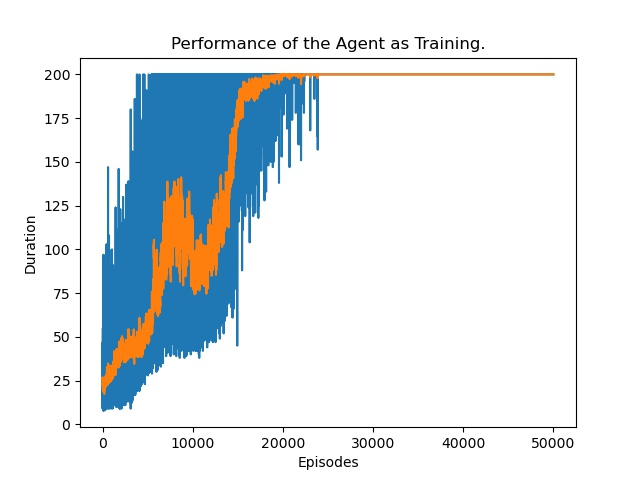
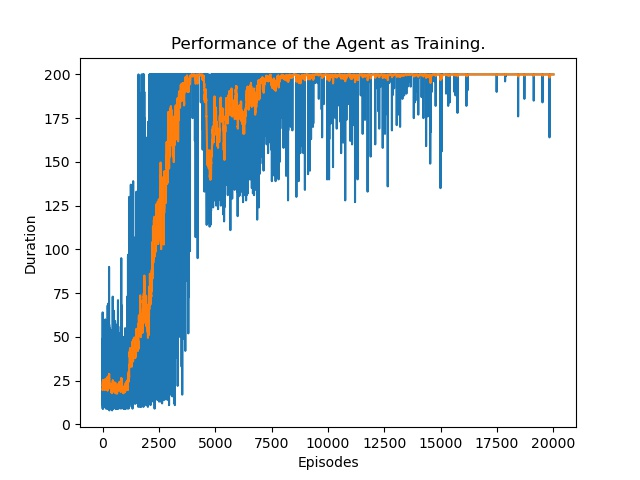
attack the state

Changed region(s): [[0.1562, 0.125, 0.875, 0.875], [0.4062, 0.9062, 0.9062, 0.9375], [0.2188, 0.9062, 0.375, 0.9375]]

diff --git a/train_DQN.py b/train_DQN.py
@@ -9,7 +9,6 @@ import json
 
 parser = argparse.ArgumentParser(description='Please provide the config file.')
 parser.add_argument('-config', type=str, help='the path to the config file')
-parser.add_argument('-seed', type=int, help='the path to the config file')
 args = parser.parse_args()
 with open(args.config) as f:
     config = json.load(f)
@@ -17,15 +16,16 @@ with open(args.config) as f:
 env = gym.make('CartPole-v0')
 input_dim = env.observation_space.shape[0]
 output_dim = env.action_space.n
-agent = Agent(seed=args.seed,
+agent = Agent(seed=1423,
     layer_sizes=[input_dim, config['hidden_layer_size'], output_dim], 
     lr=config['lr'], 
     sync_freq=config['sync_freq'], 
     exp_replay_size=config['exp_replay_size'],
     gamma=config['gamma'])
 agent.initialize(env)
-if args.reg is not None:
+if config['reg'] is not None:
     agent.q_net.load_state_dict(torch.load('models/agent_normal.pth'))
+    agent.q_net.eval()
 
 durations = []
 index = config['exp_replay_size'] / 2
@@ -48,13 +48,18 @@ for i in range(config['n_episodes']):
             for _ in range(4):
                 q_loss, reg_loss = agent.compute_loss(batch_size=config['batch_size'], reg=config['reg'])
                 loss = q_loss + reg_loss if reg_loss is not None else q_loss
-                agent.optimizer.zero_grad()
-                loss.backward(retain_graph=True)
-                agent.optimizer.step()
+                if config['reg'] is None:
+                    agent.optimizer.zero_grad()
+                    loss.backward(retain_graph=True)
+                    agent.optimizer.step()
+                else:
+                    agent.optimizer.zero_grad()
+                    loss.backward(retain_graph=True)
+                    agent.optimizer.step()
+                    
 
-    # if i % 100 == 0:         
-    #     print(f'episode {i}, q_loss: {q_loss.item()}, reg_loss: {reg_loss.item() if reg_loss is not None else None}')
-    #     pass
+    if i % 100 == 0:         
+        print(f'episode {i}, q_loss: {q_loss.item()}, reg_loss: {reg_loss.item() if reg_loss is not None else None}')
 
     if epsilon > config['eps_end']:
         epsilon -= (1 / config['eps_decay'])
@@ -81,5 +86,5 @@ for i in range(1000):
         obs, reward, done, _ = env.step(A.item())
         r += 1
 
-print(f"Seed: {args.seed}. Try 1000 episodes. Average reward is {r / 1000}.")
+print(f"Try 1000 episodes. Average reward is {r / 1000}.")
 agent.save(config['savepath'])

diff --git a/Agent.py b/Agent.py
@@ -12,6 +12,7 @@ class Agent:
         self.target_net = copy.deepcopy(self.q_net)
         self.loss_fn = torch.nn.MSELoss()
         self.optimizer = torch.optim.Adam(self.q_net.parameters(), lr=lr)
+        self.optimizer_last_layer = torch.optim.Adam(self.q_net[-2].parameters(), lr=lr)
         
         self.network_sync_freq = sync_freq
         self.network_sync_counter = 0
@@ -102,10 +103,11 @@ class Agent:
         reg_loss = None
         if reg:
             K, sigma, gamma, lambd = reg['K'], reg['sigma'], reg['gamma'], reg['lambda']
-            for i in range(len(self.q_net)-2):
-                s = self.q_net[i](s)
             si = [s+torch.randn(size=s.shape) * sigma for _ in range(K)]
-            ai = [self.q_net[-1](self.q_net[-2](s)) for s in si]
+            # for i in range(len(self.q_net)-2):
+            #     s = self.q_net[i](s)
+            s = self.q_net(s)
+            ai = [self.q_net(s) for s in si]
             ai = [torch.exp(a) / torch.sum(torch.exp(a), axis=1, keepdim=True) for a in ai]
             ai = torch.stack(ai, axis=2)
             eps = 1e-3

diff --git a/train_attacker.py b/train_attacker.py
@@ -2,7 +2,6 @@ from Agent import Agent
 from Attacker import Attacker
 import gym
 import torch
-from vars import *
 import matplotlib.pyplot as plt
 import copy
 from statsmodels.tsa.api import SimpleExpSmoothing
@@ -48,10 +47,10 @@ for i in range(attack_cfg['n_episodes']):
         obs = obs_next
         index += 1
         
-        if(index > EXP_REPLAY_SIZE / 2):
+        if(index > agent_cfg['exp_replay_size'] / 2):
             index = 0
             for _ in range(4):
-                loss, _ = agent.compute_loss(batch_size=BATCH_SIZE)
+                loss, _ = agent.compute_loss(batch_size=agent_cfg['batch_size'])
                 optimizer.zero_grad()
                 (-loss).backward(retain_graph=True)
                 optimizer.step()
